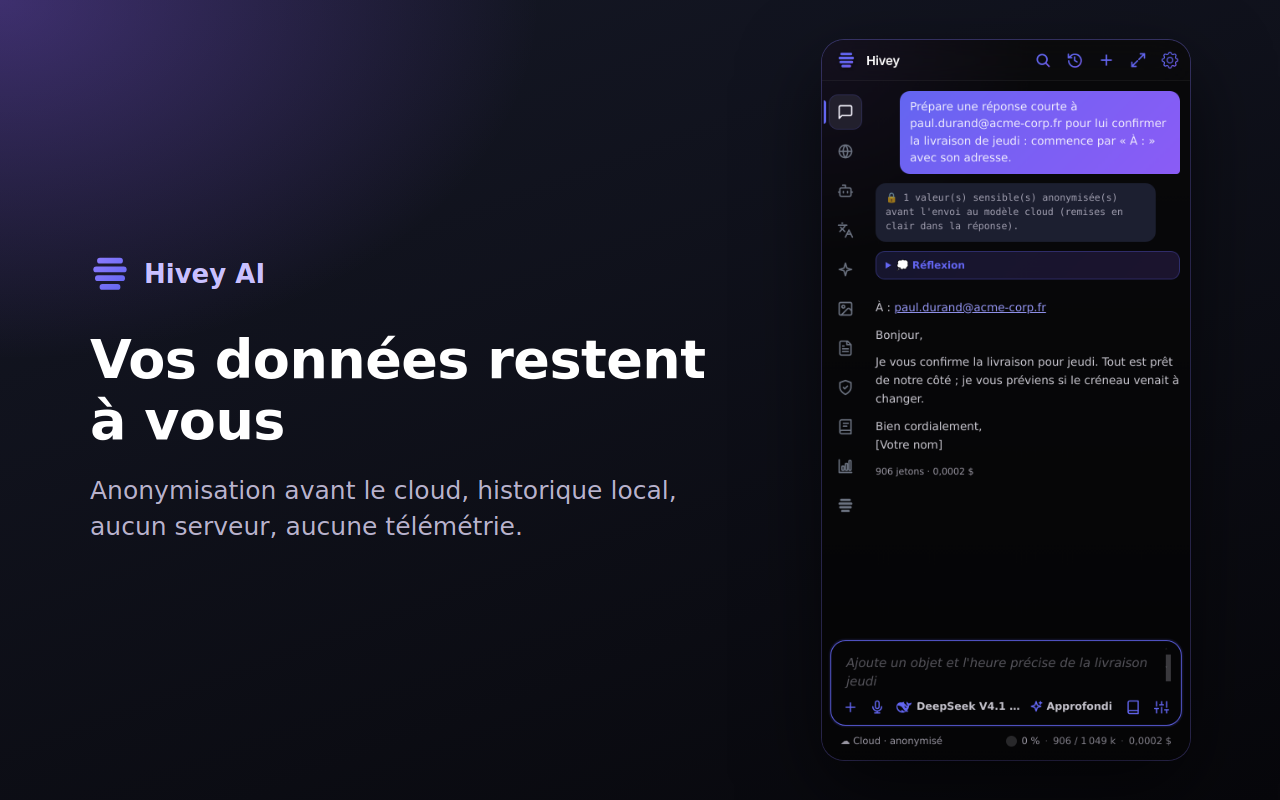
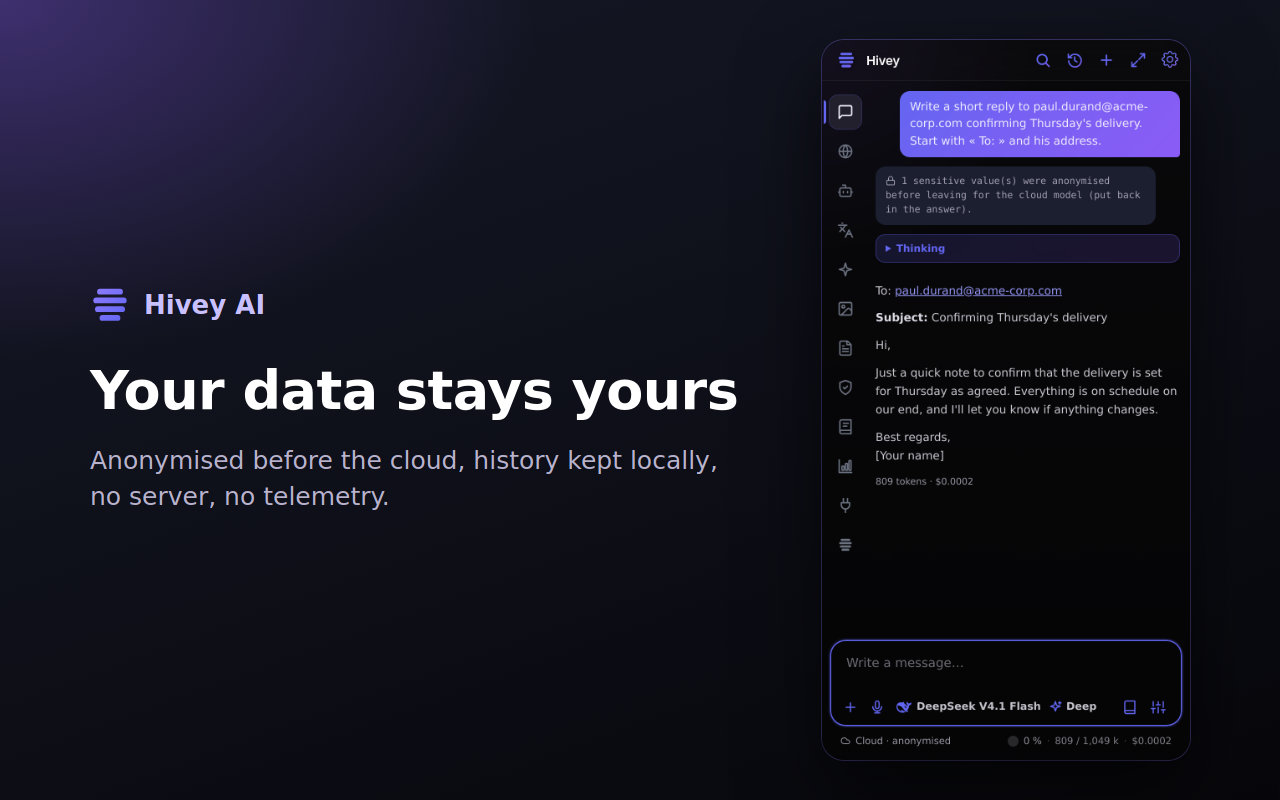
docs : visuels du Chrome Web Store en anglais (captures réelles de l'interface en anglais) + description anglaise

diff --git a/docs/CHROME-WEB-STORE.md b/docs/CHROME-WEB-STORE.md
@@ -12,8 +12,8 @@ onglets** — et tant que le brouillon n'est pas **enregistré**. En haut de la 
   l'extension est gratuite et sans activité commerciale.
 
 **Fiche du Chrome Web Store** :
-- description détaillée (texte ci-dessous), catégorie (**Productivité** → « Outils »), langue
-  (**Français**) ;
+- description détaillée (textes ci-dessous, anglais ou français), catégorie (**Productivité** →
+  « Outils »), langue (**English** si les captures sont en anglais) ;
 - icône 128×128 : `icons/icon-128.png` ;
 - au moins une capture d'écran **1280×800** : `docs/store/screenshot-1-1280x800.png` à
   `screenshot-5-1280x800.png` ;
@@ -24,6 +24,24 @@ onglets** — et tant que le brouillon n'est pas **enregistré**. En haut de la 
 brouillon**.
 
 **Distribution** : visibilité (Public ou Non répertorié), régions (toutes), et « gratuit ».
+
+## Description détaillée (fiche, en anglais)
+
+```
+Hivey AI puts the AI of your choice in Chrome's side panel, next to every page.
+
+• Your providers, your keys: Claude, OpenAI, Gemini, Mistral, Groq, DeepSeek, OpenRouter (with free models), a local model (Ollama, LM Studio) or your own server.
+• The page in context: ask about the page, a selection, several tabs or a PDF.
+• Translate, summarise, explain, improve a text — from a right-click.
+• An agent that acts in the browser on request (open, click, fill in); every sensitive action waits for your approval, and a refusal stops it.
+• MCP services: connect Notion, Jira, Linear, Gmail via Zapier… and talk to them in plain words.
+• Wisebase: your own knowledge base, indexed in the browser, with answers that cite their sources.
+• Images, interactive artifacts, diagrams, model comparison, benchmark.
+
+Privacy first: no server, no telemetry. Your keys and history stay in your browser; your messages only go to the AI service you choose, and sensitive data is anonymised before the cloud.
+
+Open source: https://github.com/FlorianMartins/HiveyAI-Sidebar
+```
 
 ## Description détaillée (fiche, en français)
 
